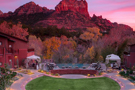
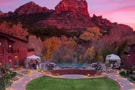
compress images

diff --git a/css/style.css b/css/style.css
@@ -589,7 +589,7 @@ input[type="radio"].visually-hidden {
 }
 
 .form-group input:focus {
-    padding: 6px 11px;
+    padding: 4px 11px;
     padding-right: 34px;
 
     background-color: #fff;
